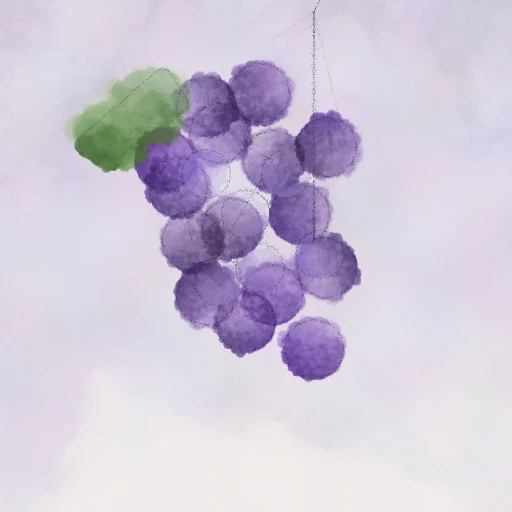
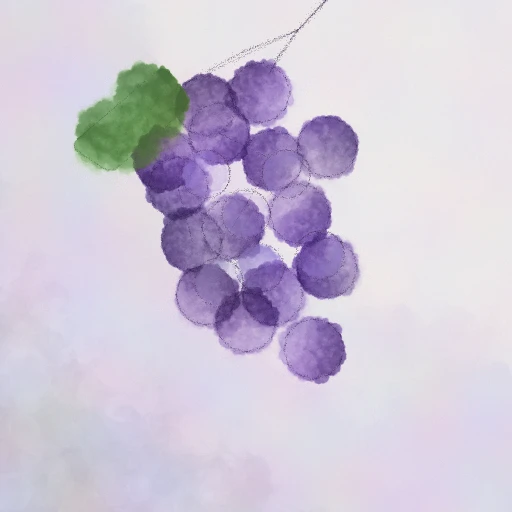
Grape painting: stem joins the bunch and the leaf
Claude-Session: https://claude.ai/code/session_01LLCmu6ixUJSwnJsrLbojYd

diff --git a/sketches/grape-g15.js b/sketches/grape-g15.js
@@ -14,12 +14,12 @@ function setup() {
   brush.vertex(-340, 340);
   brush.endShape(CLOSE);
 
-  // Stem and tendril
+  // Stem: sketched lightly under the washes
   brush.stroke('#3d2b4f');
   brush.strokeWeight(2);
-  brush.line(84, -136, 58, -244);
-  brush.line(58, -244, 17, -217);
-  brush.line(58, -244, 84, -298);
+  brush.line(72, -258, 42, -226);
+  brush.line(42, -226, 14, -184);
+  brush.line(42, -226, -72, -172);
 
   // Main grape clusters (clockwise circles via polygon approximation)
   brush.fill('#4a2c7a', 140);
@@ -56,7 +56,7 @@ function setup() {
   brush.line(-24, -28, 17, -96);
   brush.line(17, -96, -37, -123);
   brush.line(-78, -69, -64, -15);
-  brush.line(58, -244, 84, -298);
+  brush.line(42, -226, 72, -258);
 
   // Leaf
   brush.fill('#4d7a3d', 160);
@@ -68,8 +68,14 @@ function setup() {
   brush.vertex(-64, -151);
   brush.endShape(CLOSE);
 
-  // Stem base
+  // Stem: the vine comes in from the top, a stalk joins the top of the bunch,
+  // and a second stalk branches off to the leaf
   brush.stroke('#3d2b4f');
   brush.strokeWeight(3);
-  brush.line(58, -244, 58, -15);
+  brush.line(72, -258, 42, -226);
+  brush.line(42, -226, 24, -202);
+  brush.line(24, -202, 14, -184);
+  brush.strokeWeight(2);
+  brush.line(42, -226, -14, -204);
+  brush.line(-14, -204, -72, -172);
 }

diff --git a/index.html b/index.html
@@ -450,7 +450,7 @@ figure.right-wide{margin-left:0}
 
       <figure class="tie-fig" id="fig-judge-tie">
         <div class="tie-pair">
-          <div class="tie-item"><img src="demos/grape-tie-3.webp?v=leafup" alt="A bunch of distinct violet watercolor grapes with a green leaf, hanging from a vine over a soft lavender wash background" width="384" height="384" loading="lazy"><span class="tie-score">Judge score <b>5</b></span></div>
+          <div class="tie-item"><img src="demos/grape-tie-3.webp?v=stem" alt="A bunch of distinct violet watercolor grapes with a green leaf, hanging from a vine over a soft lavender wash background" width="384" height="384" loading="lazy"><span class="tie-score">Judge score <b>5</b></span></div>
           <div class="tie-eq" aria-hidden="true">=</div>
           <div class="tie-item"><img src="demos/grape-tie-2.webp" alt="A dense cluster of overlapping violet and blue watercolor grapes with a small green leaf" width="384" height="384" loading="lazy"><span class="tie-score">Judge score <b>5</b></span></div>
           <div class="tie-eq" aria-hidden="true">=</div>

diff --git a/js/figures/data.js b/js/figures/data.js
@@ -7,7 +7,7 @@ window.FIG = {
   groups: {
     grapes: { short: "a bunch of grapes",
       code: "sketches/grape-g15.js",
-      imgs: ["demos/grape-pipe-1.webp?v=leafup", "demos/grape-tie-2.webp", "demos/grape-tie-1.webp", "demos/grape-pipe-4.webp"] }
+      imgs: ["demos/grape-pipe-1.webp?v=stem", "demos/grape-tie-2.webp", "demos/grape-tie-1.webp", "demos/grape-pipe-4.webp"] }
   },
   placeholder: {
     pipeline: { grapes: [0.74,0.62,0.55,0.43] }
